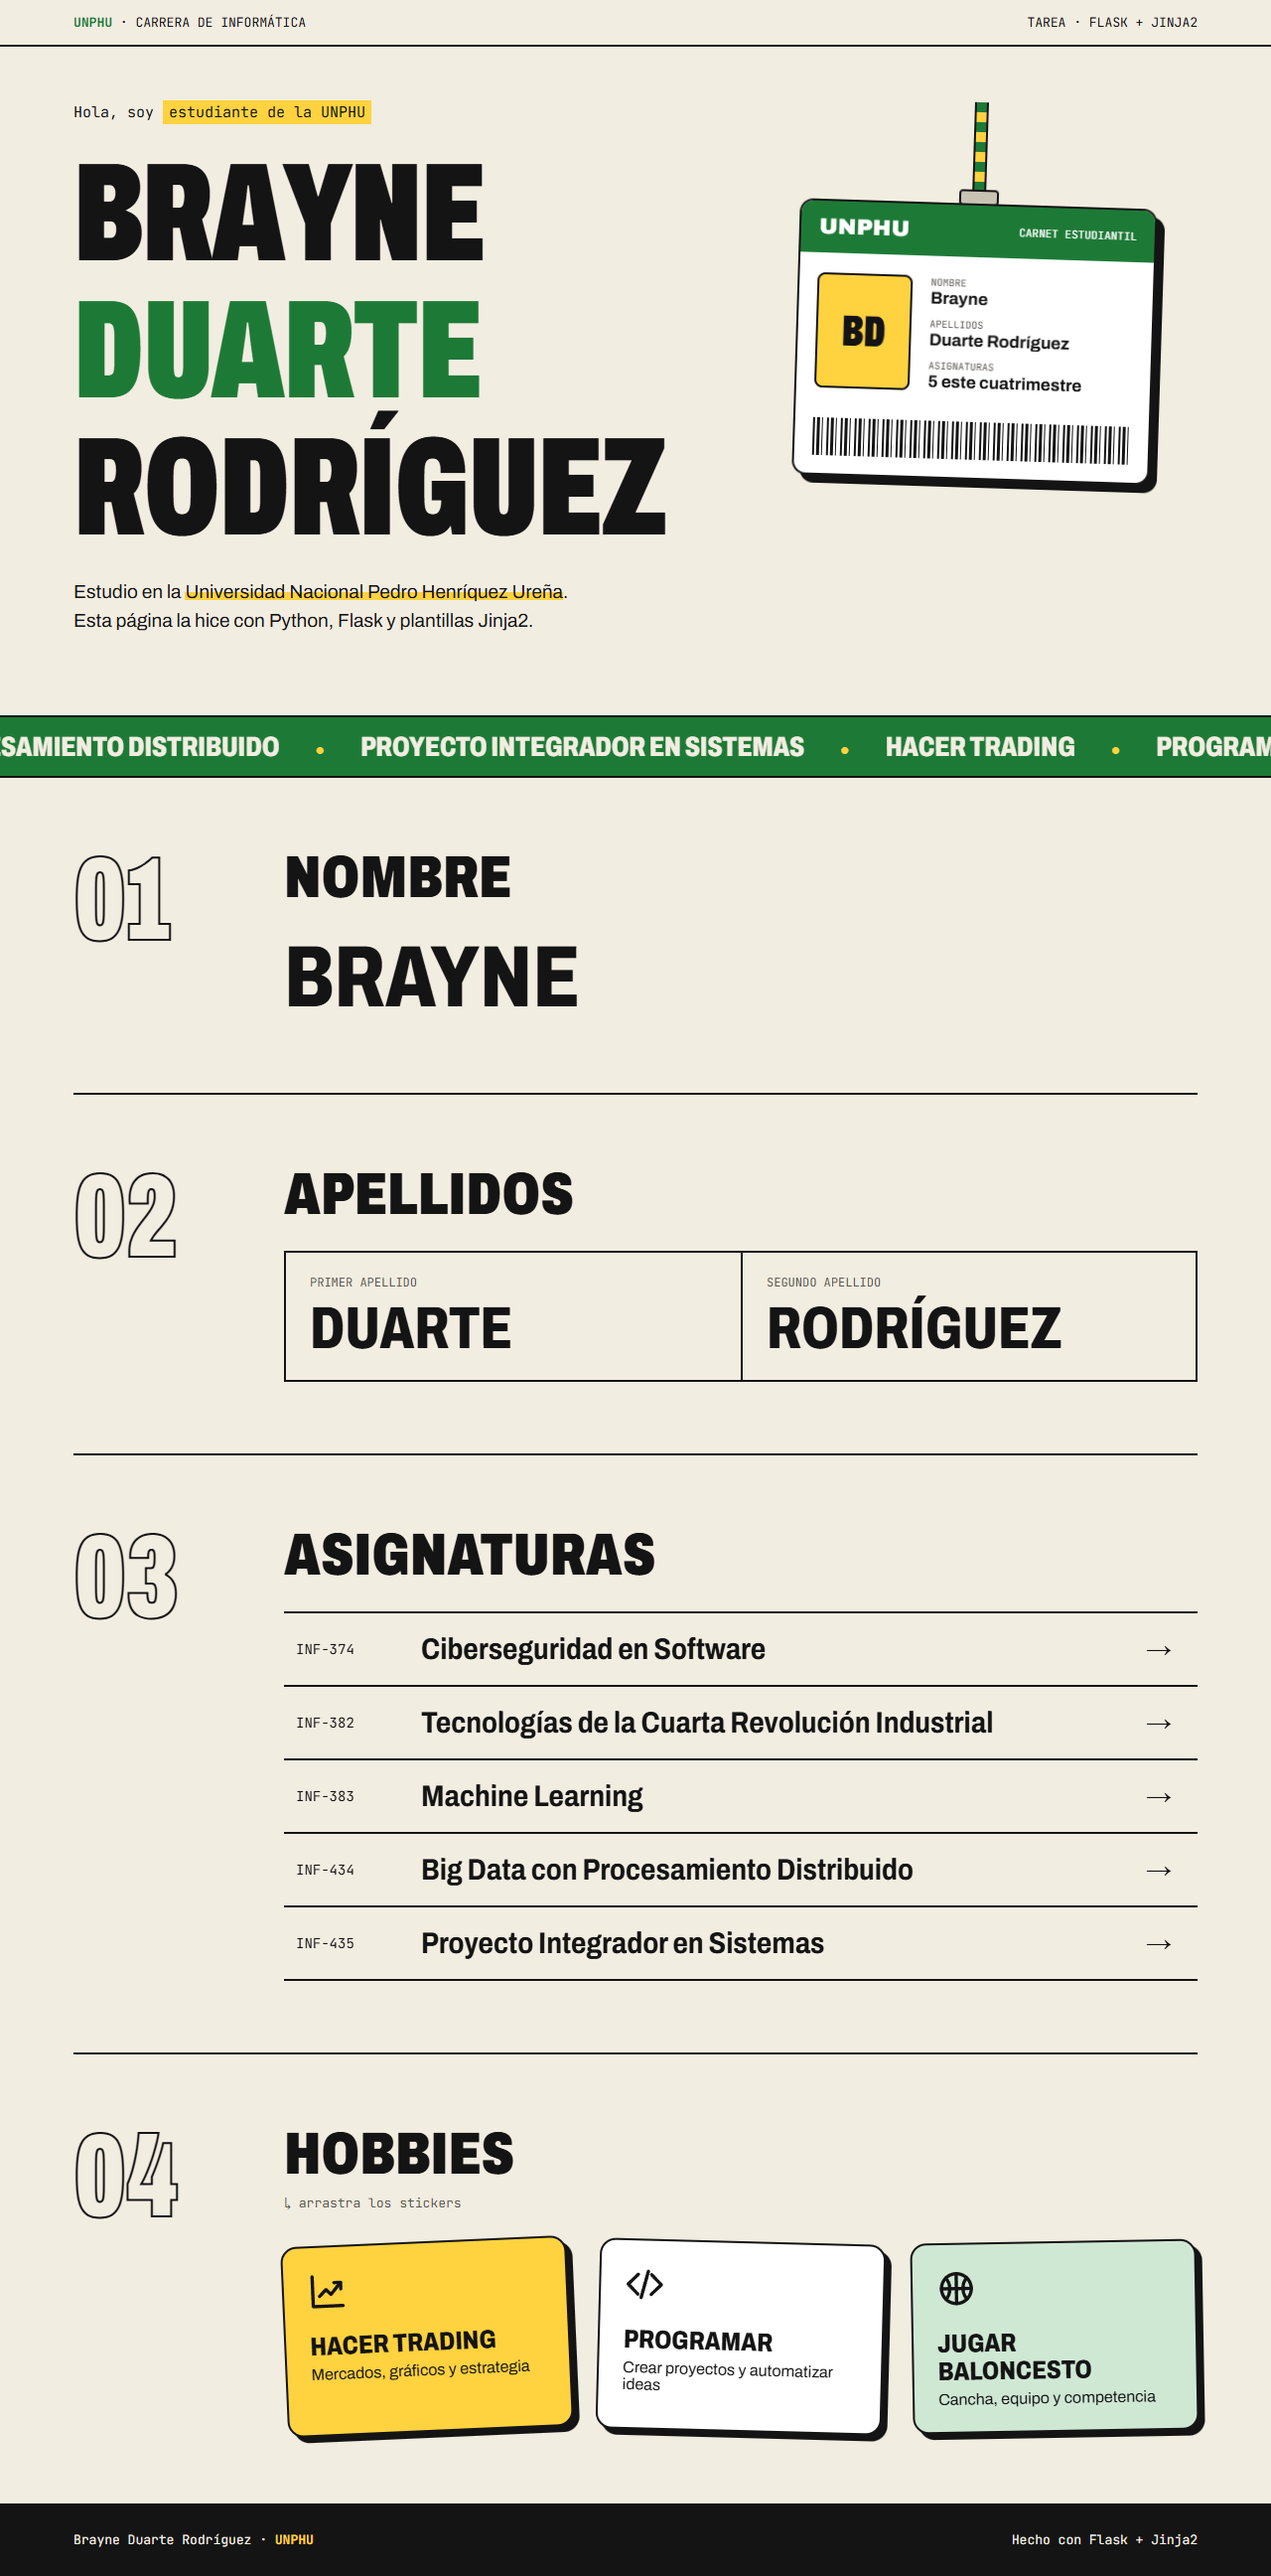
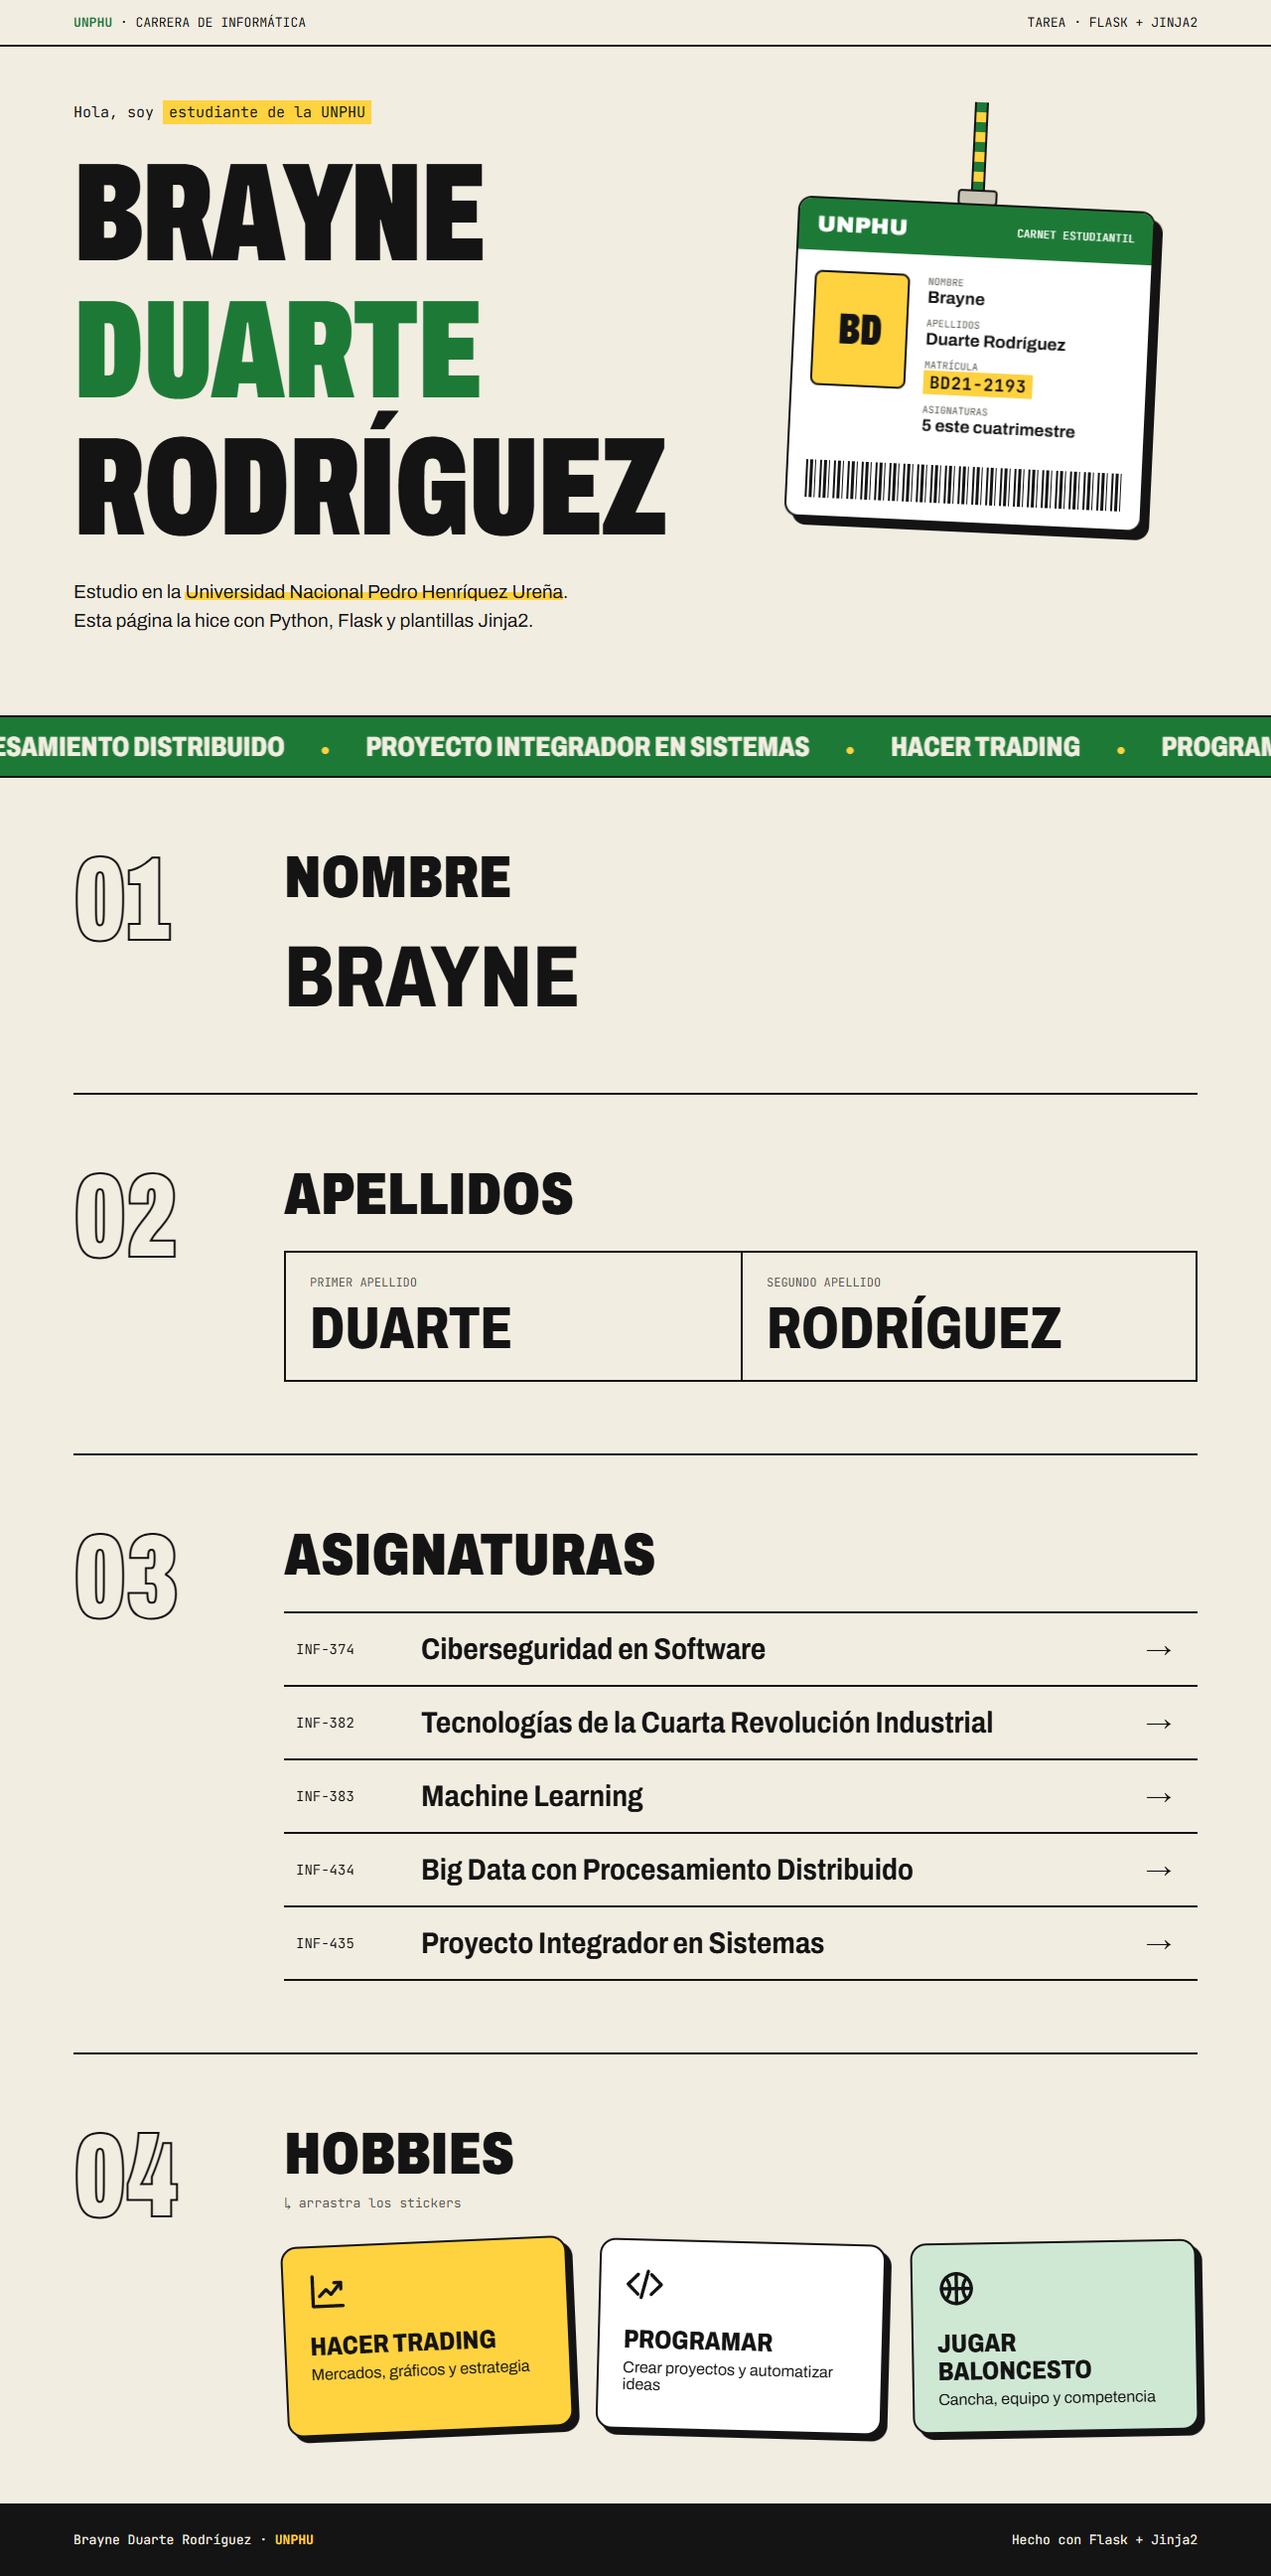
Agrega la matrícula al carnet

diff --git a/templates/index.html b/templates/index.html
@@ -106,6 +106,7 @@
         .campo { margin: 0 0 10px; }
         .campo small { display: block; font-family: "JetBrains Mono", monospace; font-size: 10px; text-transform: uppercase; color: var(--gris); }
         .campo b { font-size: 17px; }
+        .campo b.matricula { font-family: "JetBrains Mono", monospace; letter-spacing: .04em; background: var(--amarillo); padding: 1px 6px; }
         .codigo-barras {
             height: 38px; margin: 0 18px 18px;
             background: repeating-linear-gradient(90deg, var(--tinta) 0 2px, transparent 2px 4px, var(--tinta) 4px 7px, transparent 7px 9px, var(--tinta) 9px 10px, transparent 10px 14px);
@@ -239,6 +240,7 @@
                         <div>
                             <p class="campo"><small>Nombre</small><b>{{ nombre }}</b></p>
                             <p class="campo"><small>Apellidos</small><b>{{ apellidos.primero }} {{ apellidos.segundo }}</b></p>
+                            <p class="campo"><small>Matrícula</small><b class="matricula">{{ matricula|upper }}</b></p>
                             <p class="campo"><small>Asignaturas</small><b>{{ asignaturas|length }} este cuatrimestre</b></p>
                         </div>
                     </div>

diff --git a/app.py b/app.py
@@ -9,6 +9,7 @@ def inicio():
     nombre = "Brayne"
     universidad = "Universidad Nacional Pedro Henríquez Ureña"
     siglas = "UNPHU"
+    matricula = "bd21-2193"
 
     # Diccionario para los apellidos
     apellidos = {
@@ -37,6 +38,7 @@ def inicio():
         apellidos=apellidos,
         universidad=universidad,
         siglas=siglas,
+        matricula=matricula,
         asignaturas=asignaturas,
         hobbies=hobbies,
     )

diff --git a/README.md b/README.md
@@ -14,10 +14,10 @@ plantilla `templates/index.html` con `render_template`.
 | Al menos una ruta | `@app.route("/")` → `inicio()` |
 | Al menos una plantilla | `templates/index.html` |
 | Datos enviados por variables | `render_template("index.html", nombre=..., apellidos=..., ...)` |
-| Variables | `nombre`, `universidad`, `siglas` |
+| Variables | `nombre`, `universidad`, `siglas`, `matricula` |
 | Diccionario | `apellidos = {"primero": ..., "segundo": ...}` |
 | Listas | `asignaturas` (5, con código) y `hobbies` (3), listas de diccionarios |
-| Jinja2 | `{{ nombre }}`, `{{ apellidos.primero }}`, macro `icono()`, filtro `length` |
+| Jinja2 | `{{ nombre }}`, `{{ apellidos.primero }}`, macro `icono()`, filtros `length` y `upper` |
 | Ciclo `for` de Jinja2 | `{% for asignatura in asignaturas %}` y `{% for hobby in hobbies %}` (también el nombre letra por letra) |
 
 ## Diseño
